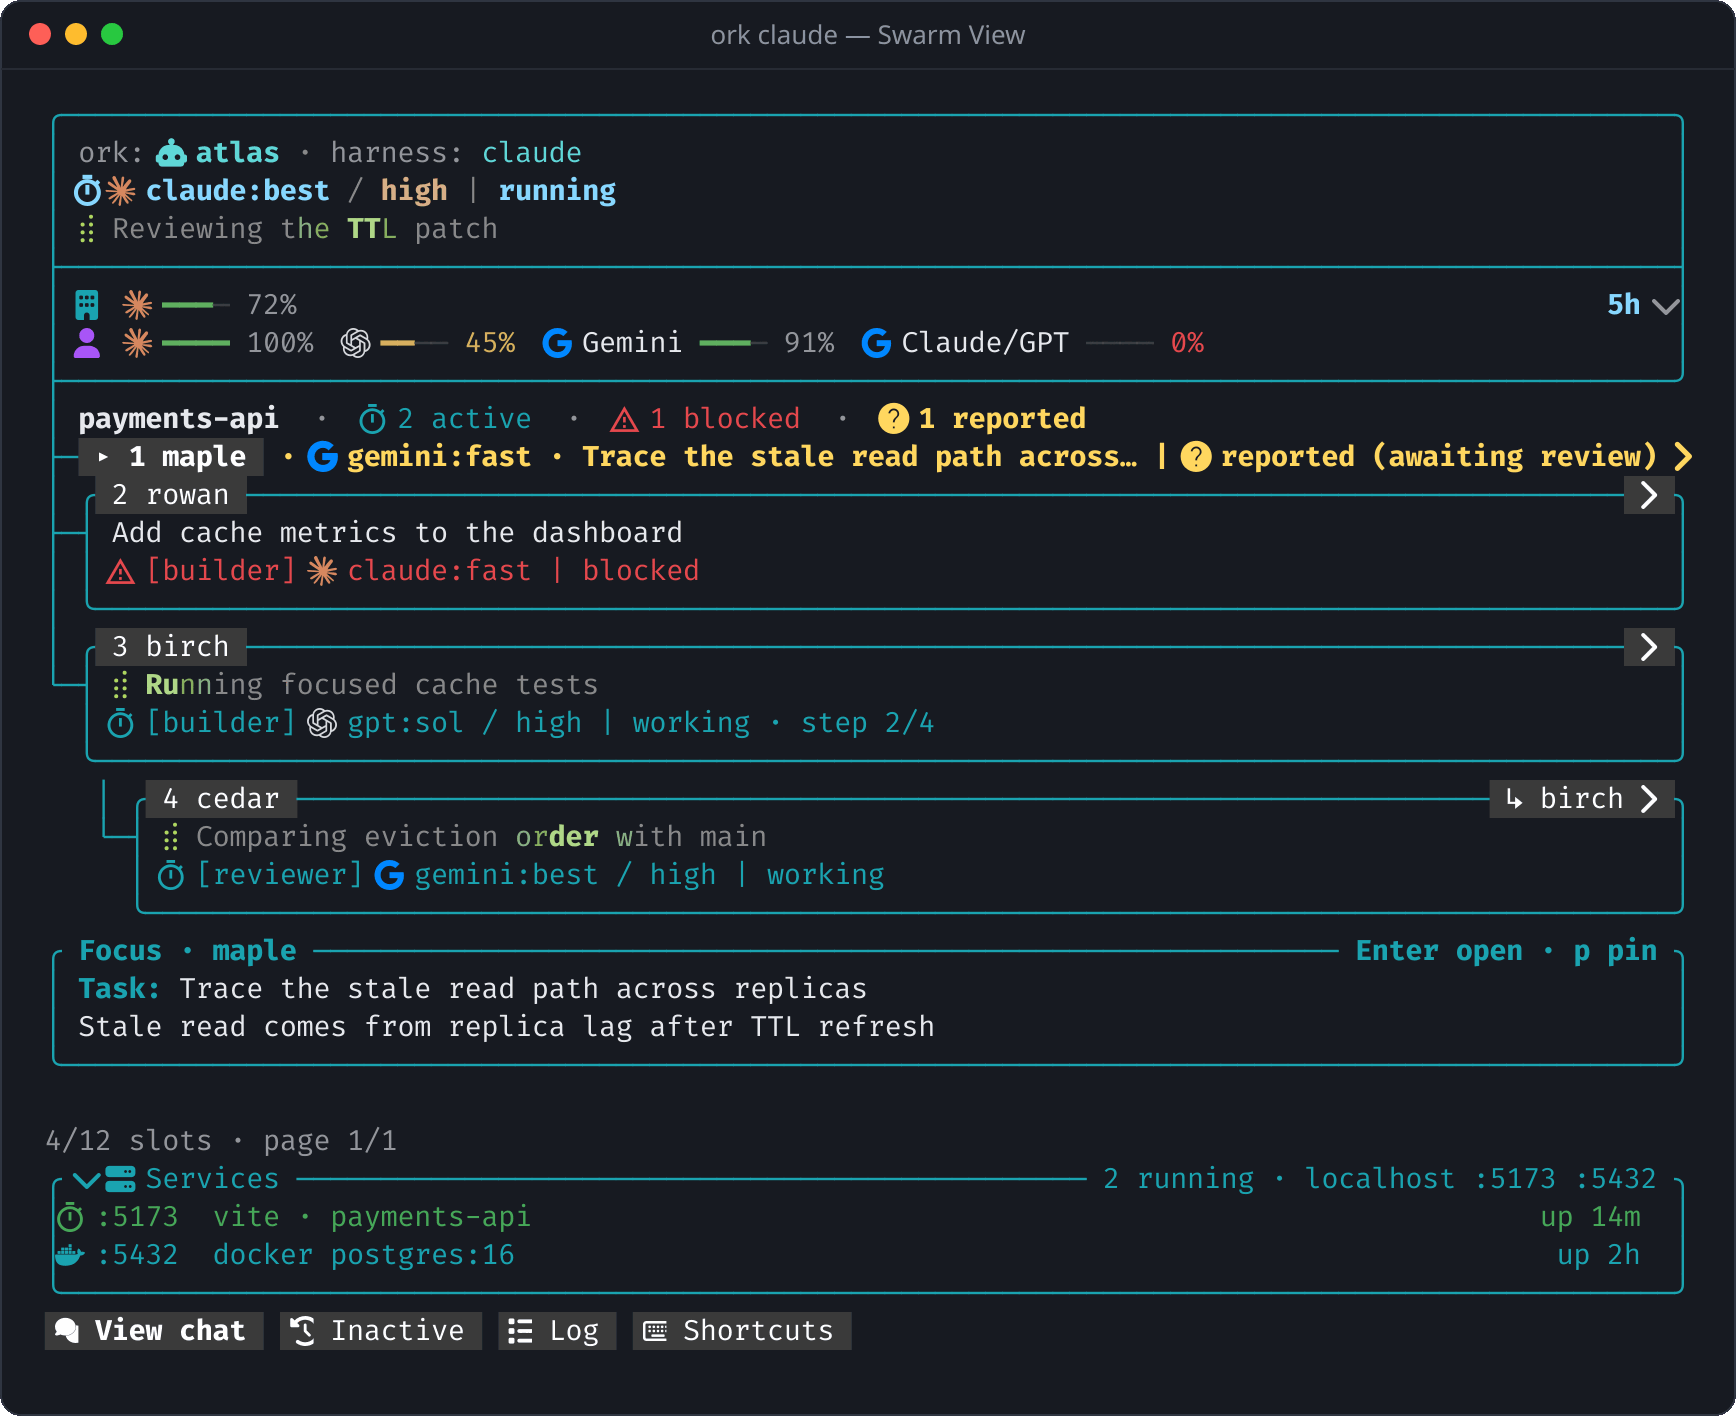
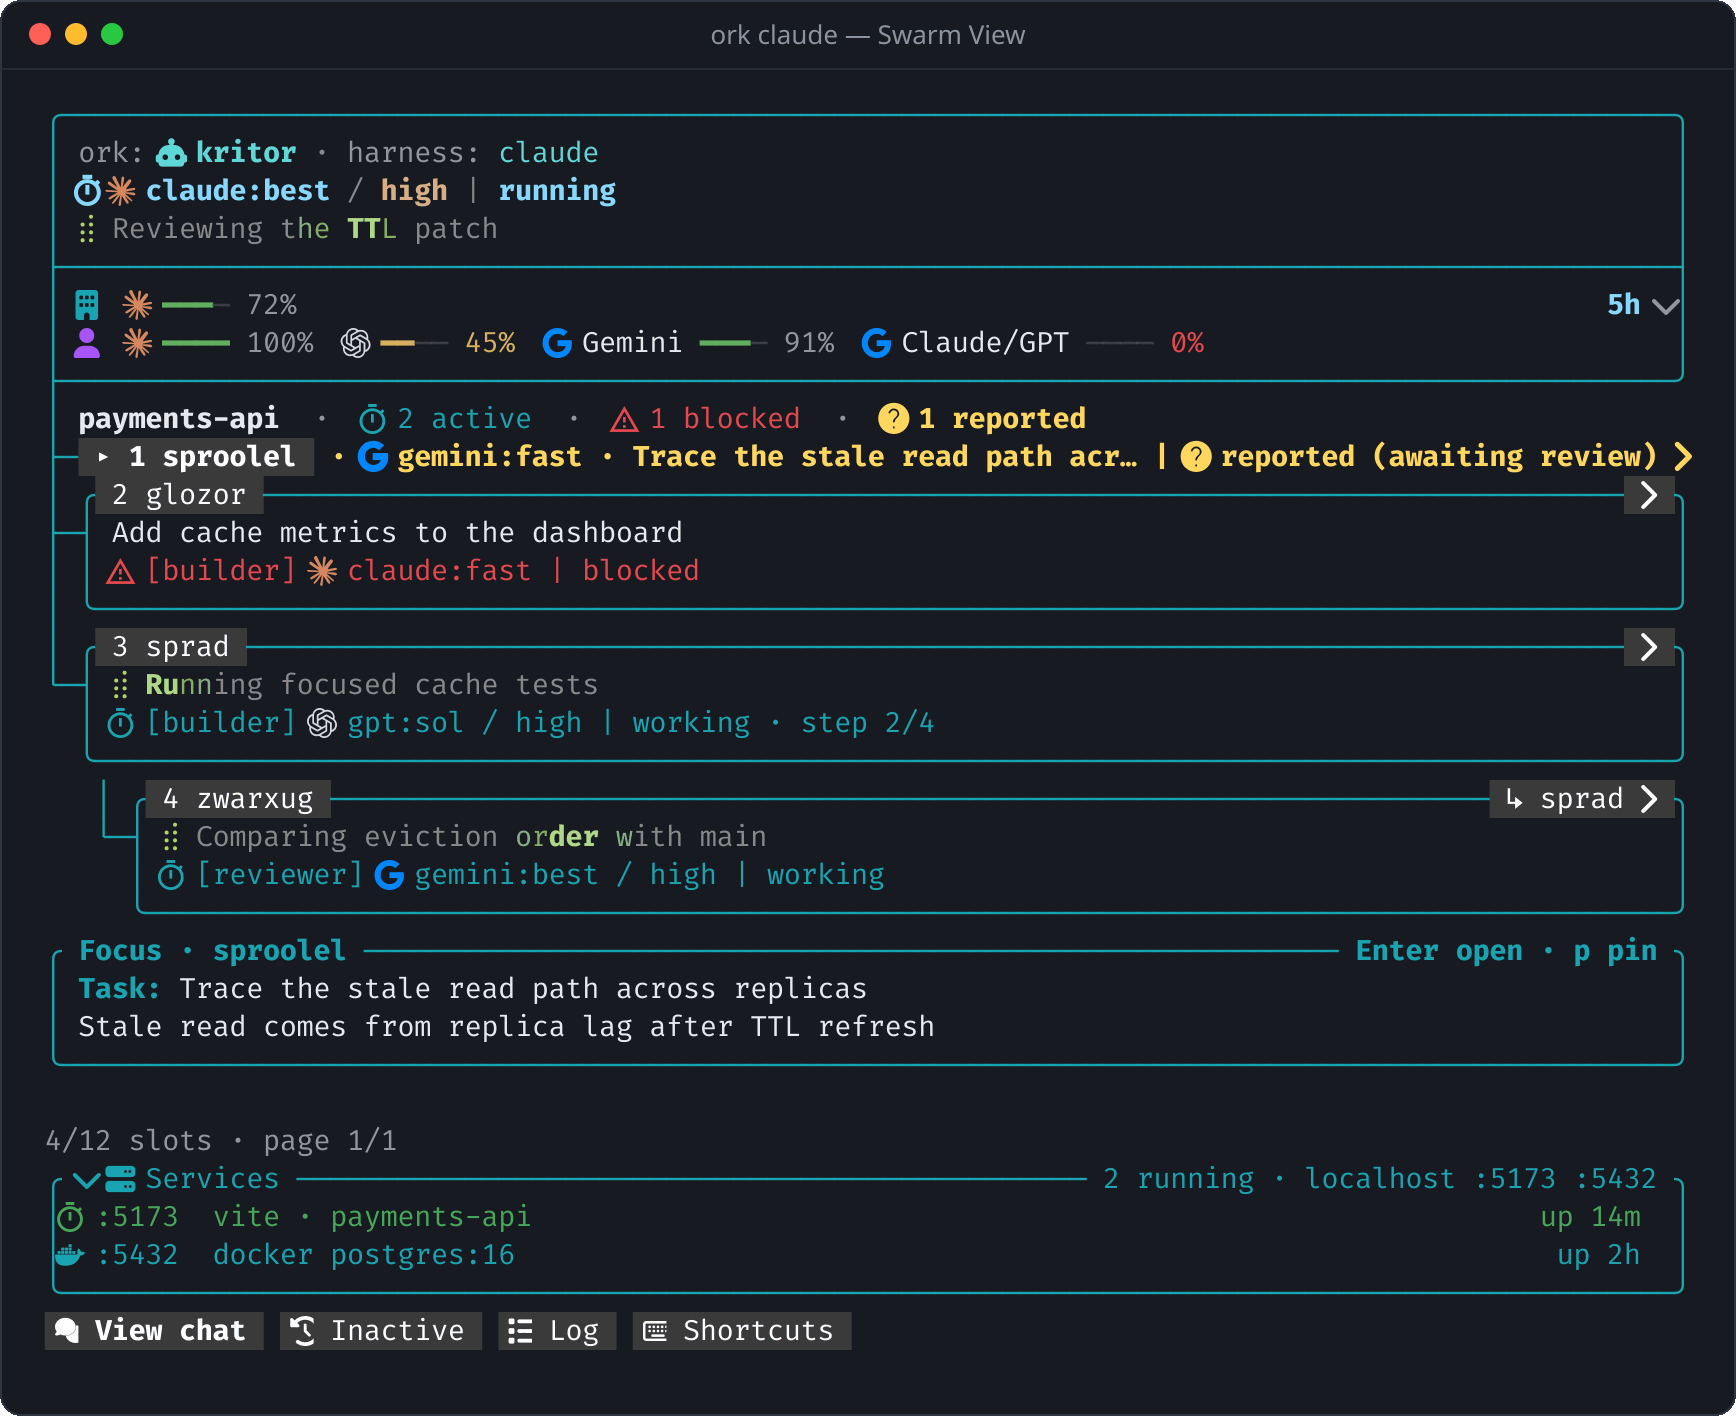
docs: add a "Why Orkest" section, native-CLI note and orc names in screenshots (#165)
* docs: use generated orc names in the README screenshots

The demo agents were called atlas, birch, cedar, rowan and maple. They now
carry names from `generate_martian`, the generator real sessions are named by.

Claude-Session: https://claude.ai/code/session_01DZEVsgHyitQ2Nw4dWnUqts

* docs: say that Orkest runs hosted models through their own CLIs

The README did not say how models are reached. Each hosted model runs through
its vendor's CLI with that CLI's login, so a subscription login means the
swarm spends the subscription; a run that would spend paid Codex credits is
refused unless allowed; open-weight models go through OpenCode on OpenRouter.

Claude-Session: https://claude.ai/code/session_01DZEVsgHyitQ2Nw4dWnUqts

* docs: spell out what Orkest is good at in a "Why Orkest" section

Replaces the terse feature bullets with what each one does for the user:
quota-aware dispatch, spending expiring allowance, account rules, checked
completion, cross-vendor review, the shared gate and model radar. Each
statement describes Orkest's own behaviour; none compares it to other tools.

Claude-Session: https://claude.ai/code/session_01DZEVsgHyitQ2Nw4dWnUqts

---------

diff --git a/scripts/lib/readme-demo.js b/scripts/lib/readme-demo.js
@@ -111,7 +111,10 @@ export function demoAccounts() {
   ];
 }
 
-/** A swarm room with a lead, three workers at different stages and one nested reviewer. */
+/**
+ * A swarm room with a lead, three workers at different stages and one nested reviewer.
+ * Agent names come from `generate_martian` in mailbox_store.py, as real sessions get them.
+ */
 export function demoRoom() {
   return {
     id: "demo-room",
@@ -121,7 +124,7 @@ export function demoRoom() {
     herdrCoordinatorPaneId: "w1:p1",
     conductor: {
       id: "lead",
-      name: "atlas",
+      name: "kritor",
       status: "running",
       engine: "claude",
       model: "claude:best",
@@ -136,8 +139,8 @@ export function demoRoom() {
     },
     agents: [
       {
-        id: "birch",
-        name: "birch",
+        id: "sprad",
+        name: "sprad",
         status: "working",
         engine: "codex",
         model: "gpt:sol",
@@ -154,14 +157,14 @@ export function demoRoom() {
         },
       },
       {
-        id: "cedar",
-        name: "cedar",
+        id: "zwarxug",
+        name: "zwarxug",
         status: "working",
         engine: "agy",
         model: "gemini:best",
         effort: "high",
         objective: "Cold-review the eviction ordering diff",
-        parent: "birch",
+        parent: "sprad",
         herdrPaneId: "w1:p3",
         output: ["Reading eviction ordering"],
         progress: {
@@ -172,8 +175,8 @@ export function demoRoom() {
         },
       },
       {
-        id: "rowan",
-        name: "rowan",
+        id: "glozor",
+        name: "glozor",
         status: "blocked",
         engine: "claude",
         model: "claude:fast",
@@ -184,8 +187,8 @@ export function demoRoom() {
         progress: { role: "builder" },
       },
       {
-        id: "maple",
-        name: "maple",
+        id: "sproolel",
+        name: "sproolel",
         status: "completed",
         engine: "agy",
         model: "gemini:fast",
@@ -199,7 +202,7 @@ export function demoRoom() {
       { name: "vite", port: 5173, status: "running", uptime: "14m", cwd: REPO },
       { name: "postgres:16", port: 5432, status: "running", uptime: "2h", kind: "docker" },
     ],
-    messages: [{ from: "birch", text: "TTL patch is ready for review" }],
+    messages: [{ from: "sprad", text: "TTL patch is ready for review" }],
     swarm: { maxAgents: 12, maxDepth: 3 },
   };
 }

diff --git a/scripts/lib/readme.js b/scripts/lib/readme.js
@@ -115,10 +115,10 @@ export async function captures(repo) {
         cols: 110,
         rows: 30,
         prepare(view) {
-          view.focusId = "birch";
+          view.focusId = "sprad";
           view.setPreview({
-            agentId: "birch",
-            title: "birch",
+            agentId: "sprad",
+            title: "sprad",
             kind: "terminal",
             loading: false,
             text: DEMO_TERMINAL,

diff --git a/README.md b/README.md
@@ -5,16 +5,35 @@ who is doing what, burning the wrong account's quota, or stepping on each other'
 
 ![Swarm View: a coordinator, three workers and a nested reviewer, with quota meters and running services](docs/images/swarm-view.png)
 
-You keep working in your normal harness CLI. Orkest sits beside it:
+Every hosted model runs through its vendor's own CLI: Claude through `claude`, GPT through `codex`,
+Gemini through `agy`, each with the login it already has. Where that login is a subscription, a
+swarm spends the subscription, not a metered API key, and every agent keeps its harness's own
+tools, permissions and settings. A run that would start spending paid Codex credits is refused
+unless you allow it. Open-weight models are the exception: they go through OpenCode on OpenRouter
+credits.
 
-- **A live swarm tree** of native subagents and cross-harness workers, with each agent's model,
-  role, stage and outcome.
-- **Bounded delegation**: workers get a file scope, a worktree lease and verification that runs
-  outside the model. Work is "reported" until the coordinator reviews and accepts it.
-- **Second opinions** from another vendor's model, read-only.
-- **Quota awareness** across every account, so work goes where there is headroom.
-- **Guardrails**: per-repository account rules, and a shared gate so parallel agents don't run
-  five test suites at once.
+You keep working in your normal harness CLI, with a live tree of every agent beside it.
+
+## Why Orkest
+
+- **Work goes where the quota is.** Orkest reads the 5-hour and weekly windows of every
+  subscription on the machine, ranks where to spend next, and checks before each dispatch: an
+  exhausted account is refused, not discovered mid-task. A lead can name a deputy on a different
+  account to take over if its own runs out.
+- **Allowance that would expire gets used.** When a weekly window is about to roll over with quota
+  left, `ork foundry` picks up ready GitHub issues and spends it on them.
+- **The right account pays.** Per-repository rules keep a work profile off personal repositories
+  and the reverse. Personal accounts are used only when you allow it, and so are paid credits.
+- **"Done" is checked, not believed.** A worker gets a file scope and a lease on the checkout.
+  After it stops, Orkest checks that only allowed paths changed and Git history is untouched, and
+  runs your verification commands outside the model. Until the coordinator accepts the result it
+  is shown as "reported", never as complete.
+- **Another vendor reviews the work.** `consult` gives a different model family a read-only look
+  at a diff or a bug, so a review is not the author's own model agreeing with itself.
+- **One machine, many agents.** A shared gate stops five agents from running five test suites at
+  once, and saves the output so nobody reruns a suite to read what scrolled away.
+- **Model changes are noticed.** Selectors such as `gpt:sol` follow each CLI's live catalog, and
+  `ork radar` flags a model whose pass rate on your own runs has dropped.
 
 ## Quick start
 
